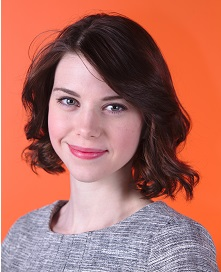
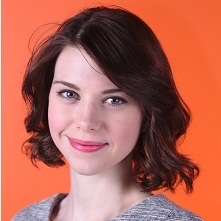
add robert and fix picture sizes

diff --git a/contact.html b/contact.html
@@ -53,21 +53,32 @@
   <div class="body">
     <section class="our-team clearfix">
       <h2>Our Team</h2>
-      <div class="col-md-4">
-        <img src="images/team/tim.jpg" alt="Tim, Owner">
-        <h4>Tim | Owner</h4>
-        <p>Loves problem-solving with a focus on customer mission success. Prides himself on his intimate understanding of the customer domain. Emphasizes understanding customer needs from start to finish.
-        </p>
+      <div>
+        <div class="col-md-2"></div>
+        <div class="col-md-8">
+          <img src="images/team/tim.jpg" alt="Tim, Owner">
+          <h4>Tim | Owner</h4>
+          <p>Loves problem-solving with a focus on customer mission success. Prides himself on his intimate understanding of the customer domain. Emphasizes understanding customer needs from start to finish.
+          </p>
+        </div>
+        <div class="col-md-2"></div>
       </div>
-      <div class="col-md-4">
-        <img src="images/team/marci.jpg" alt="Marci, Staffing">
-        <h4>Marci | Staffing</h4>
-        <p>Constantly balancing multiple roles to ensure the satisfaction of our current and potential employees. Excellent communicator that places emphasis on building relationships with employees.</p>
-      </div>
-      <div class="col-md-4">
-        <img src="images/team/taylor.jpg" alt="Taylor, Operations">
-        <h4>Taylor | Operations</h4>
-        <p>Dedicated to improving processes and policies. Supervises financial management and planning while ensuring the efficiency of our human resources department and being responsive to all employees.</p>
+      <div>
+        <div class="col-md-4">
+          <img src="images/team/marci.jpg" alt="Marci, Staffing">
+          <h4>Marci | Staffing</h4>
+          <p>Constantly balancing multiple roles to ensure the satisfaction of our current and potential employees. Excellent communicator that places emphasis on building relationships with employees.</p>
+        </div>
+        <div class="col-md-4">
+          <img src="images/team/taylor.jpg" alt="Taylor, Operations">
+          <h4>Taylor | Operations</h4>
+          <p>Dedicated to improving processes and policies. Supervises financial management and planning while ensuring the efficiency of our human resources department and being responsive to all employees.</p>
+        </div>
+        <div class="col-md-4">
+          <img src="images/team/robert.jpg" alt="Taylor, Operations">
+          <h4>Robert | Director, IT Programs</h4>
+          <p>Helping to direct the selection, utilization, professional development, economic opportunity and retention of IT and Engineering staff that support classified programs.</p>
+        </div>
       </div>
     </section>
 

diff --git a/sw.js b/sw.js
@@ -1,4 +1,4 @@
-var version = 0.8
+var version = 0.9
 var CACHE_PREFIX = 'omnyon_'
 
 self.addEventListener('install', function(e) {
